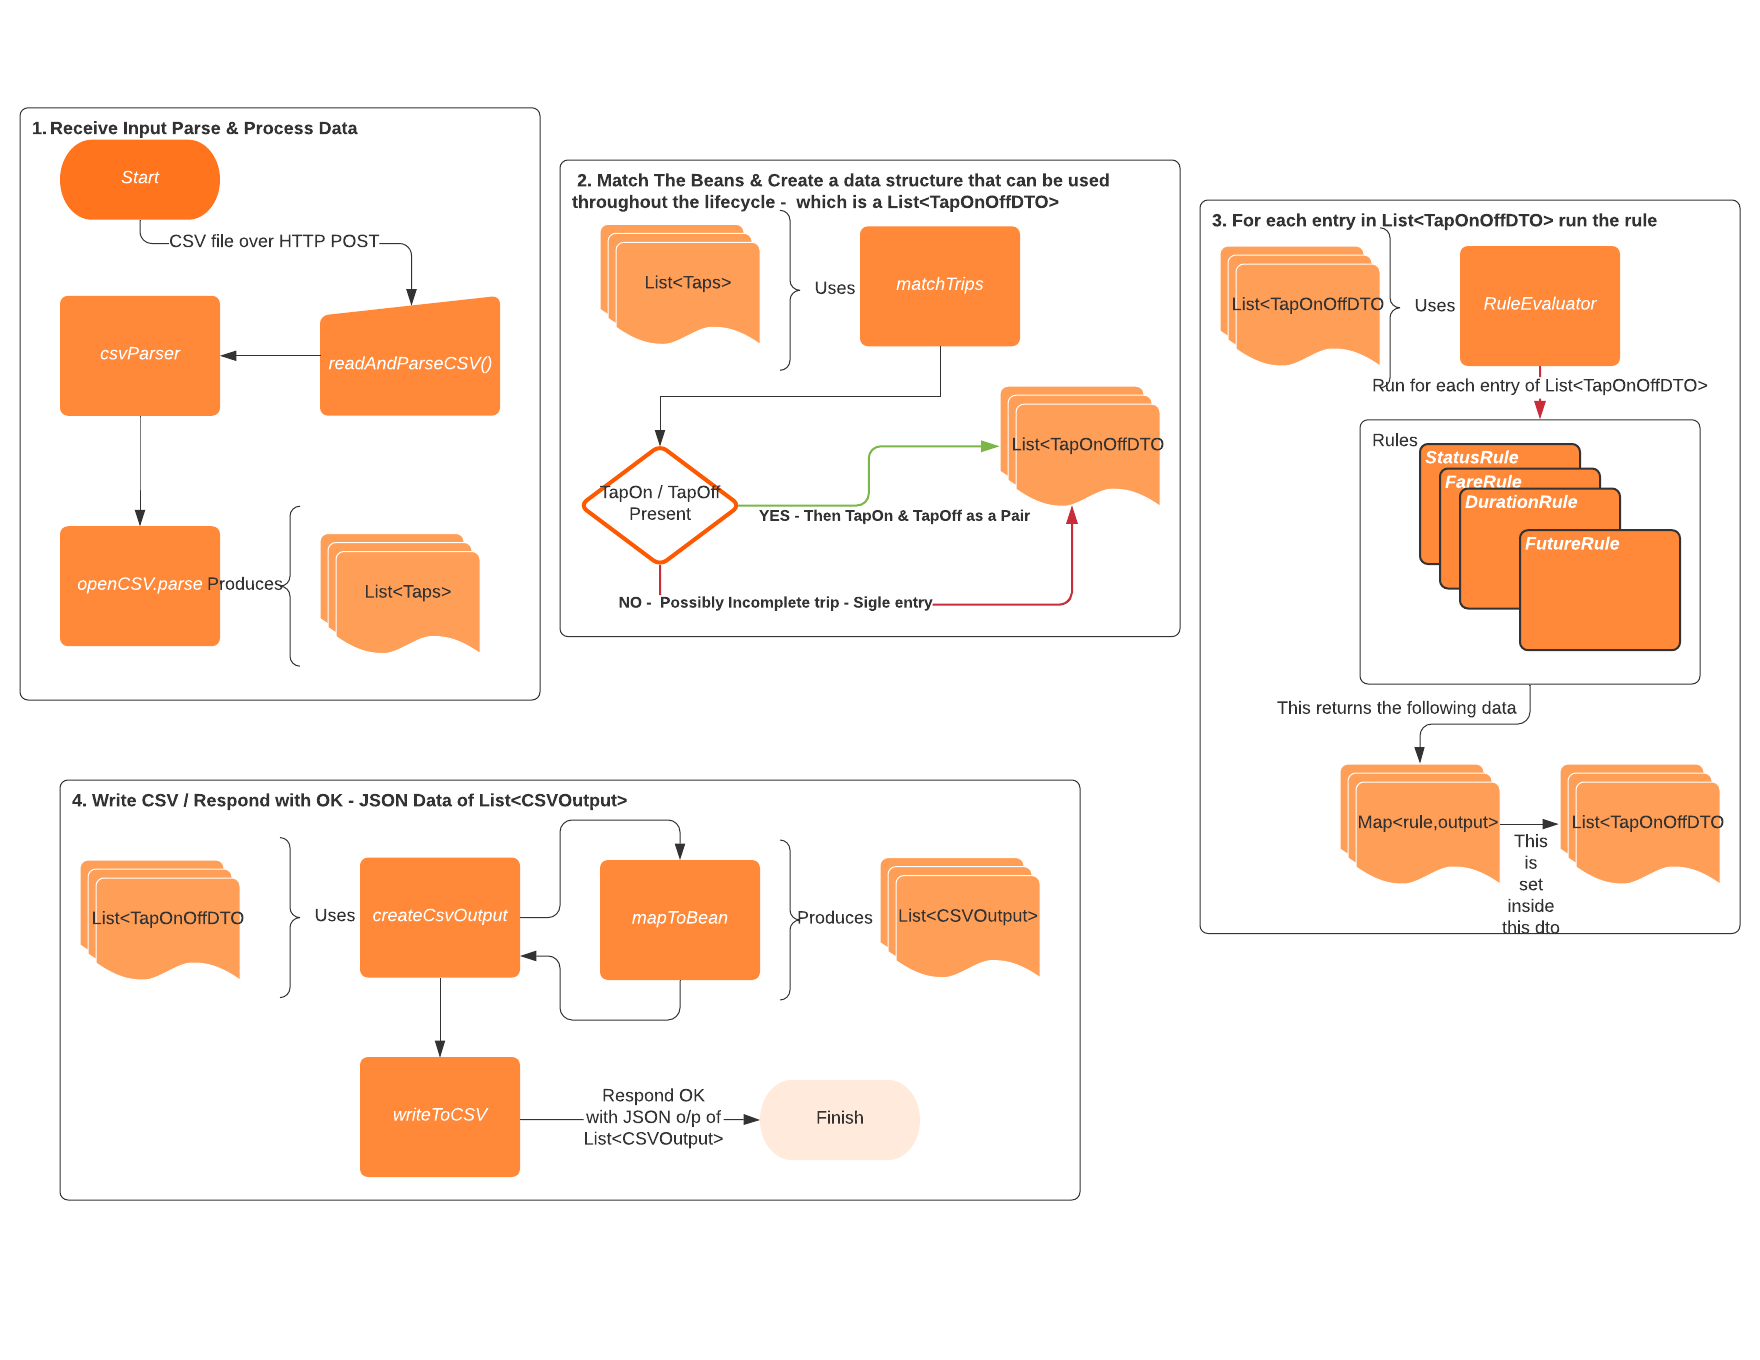
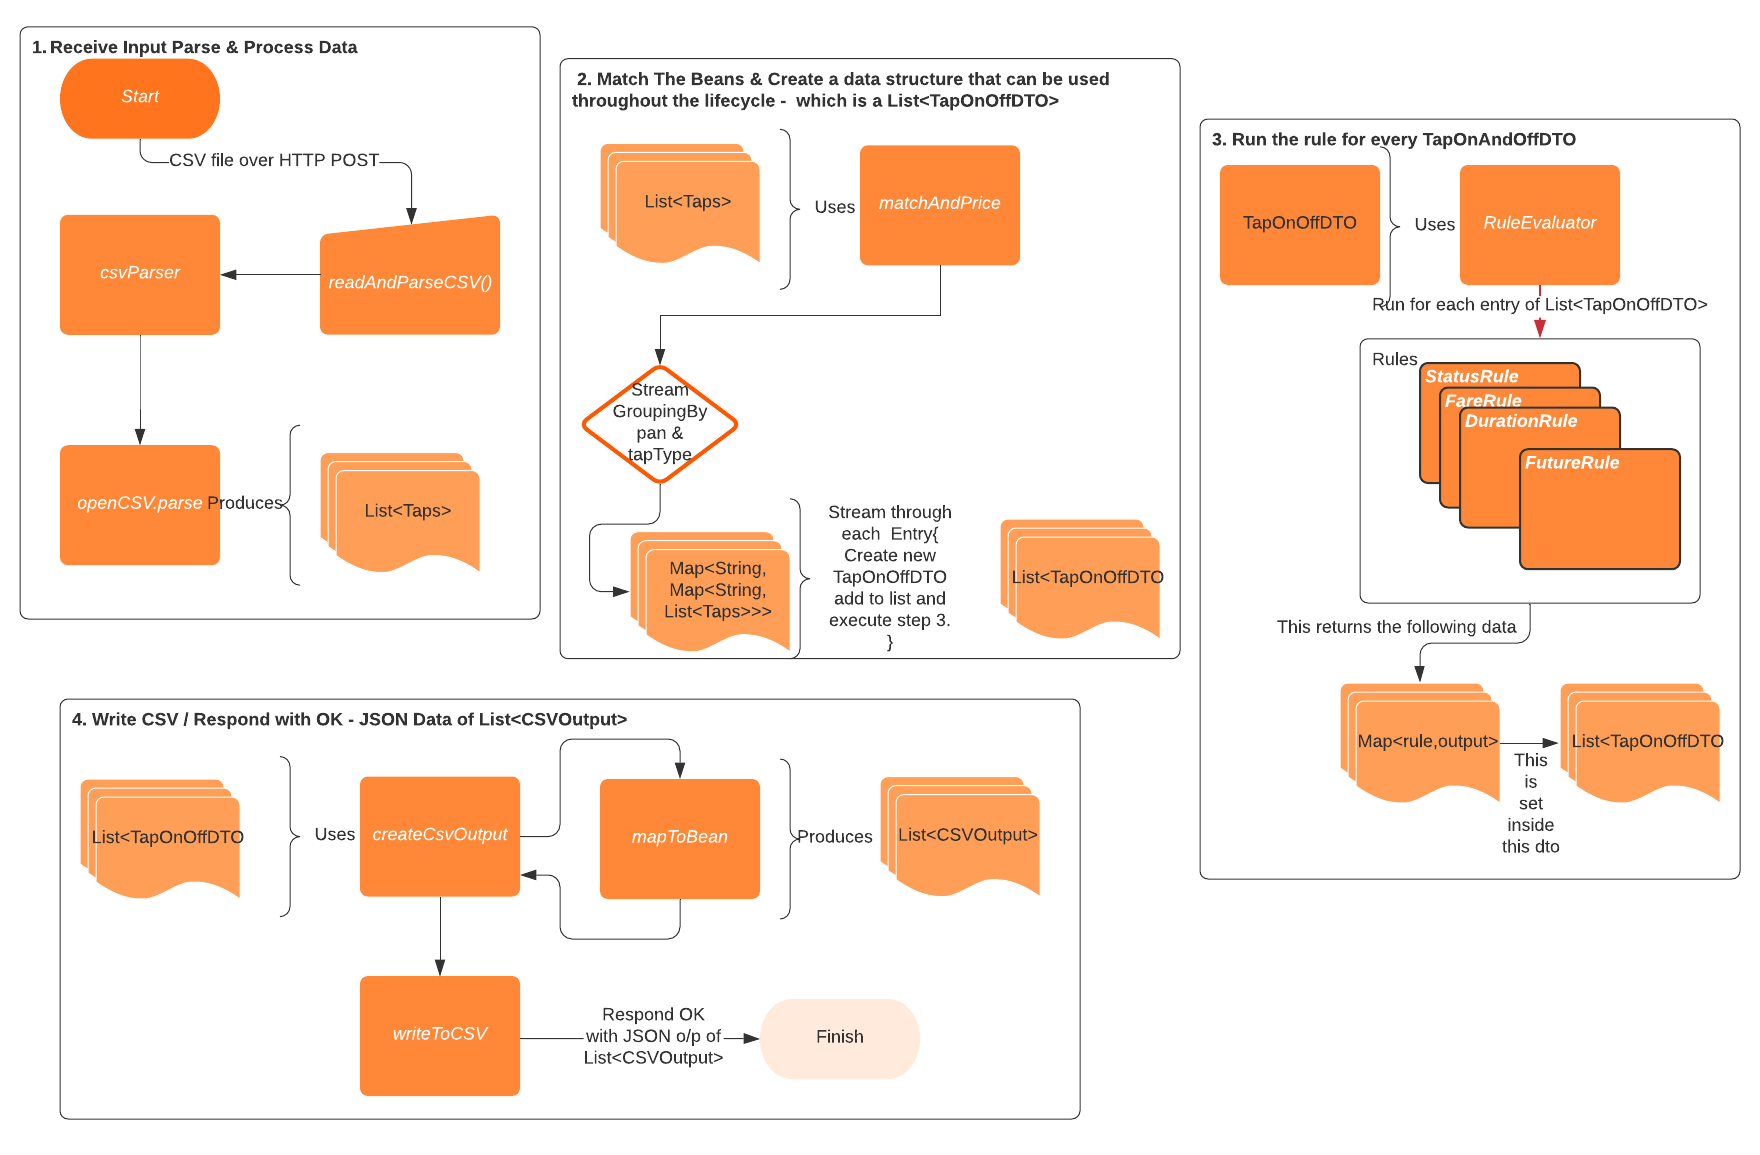
Updated documentation.

diff --git a/src/main/java/com/littlepay/farecalculator/service/AggregatorService.java b/src/main/java/com/littlepay/farecalculator/service/AggregatorService.java
@@ -83,12 +83,11 @@ public class AggregatorService {
     }
 
     /**
-     * matchTrips takes in the list of allTaps received from parsing and matches TapOn and TapOff data by copying the matched taps into a tempList and removing them from the result list once matched
-     * in order to reduce number of looping iterations.
-     * Within the tempList we match the pan numbers to tapOn and TapOff to get objects of trips per pan number.
+     * matchTrips takes in the list of allTaps received from parsing and matches TapOn and TapOff data.
+     * We use streams to match by pan and in the same iteration we group by tapType.
      *
      * @param allTaps
-     * @return List<TapOnOffDTO>
+     * @return Map<String, Map<String, List<Taps>>>
      */
     public Map<String, Map<String, List<Taps>>> matchTrips(List<Taps> allTaps) throws EmptyCSVException {
         if (allTaps.size() > 0)

diff --git a/src/test/java/com/littlepay/farecalculator/service/AggregatorServiceIntegrationTest.java b/src/test/java/com/littlepay/farecalculator/service/AggregatorServiceIntegrationTest.java
@@ -1,7 +1,6 @@
 package com.littlepay.farecalculator.service;
 
 import com.littlepay.farecalculator.FareCalculatorApplication;
-import com.littlepay.farecalculator.dto.Taps;
 import com.littlepay.farecalculator.parser.CSVParser;
 import org.junit.jupiter.api.Assertions;
 import org.junit.jupiter.api.Test;
@@ -15,7 +14,6 @@ import java.io.InputStreamReader;
 import java.io.Reader;
 import java.net.URISyntaxException;
 import java.nio.file.Paths;
-import java.util.List;
 
 @SpringBootTest(classes = FareCalculatorApplication.class, webEnvironment = SpringBootTest.WebEnvironment.RANDOM_PORT)
 public class AggregatorServiceIntegrationTest {

diff --git a/README.md b/README.md
@@ -193,7 +193,20 @@ $ curl -v -F file=@/f/development/poc/fare-calculator-poc/fare-calculator/src/ma
 
 ## Refactor
 
-application.yml
+1. Before refactor we were reading two configurations from application.yml, matrix and stops to map the cost.
+
+Old Configuration:
+```
+matrix: "{{0, 3.25, 7.3}, {3.25, 0, 5.5},{7.3, 5.5, 0}}"
+
+stops:
+  Stop1: 0
+  Stop2: 1
+  Stop3: 2
+```
+Now, we have a stop to price mapping configured in yaml file.
+We are reading both stops and cost as a key value pair into a Map as follows:
+```
 stops:
 Stop1Stop1: 0
 Stop1Stop2: 3.25
@@ -204,8 +217,10 @@ Stop2Stop3: 5.5
 Stop3Stop1: 7.3
 Stop3Stop2: 5.5
 Stop3Stop3: 0
-
-Data structure change:
+```
+2. Previously, we were iterating through two for loops to compute a pair of matched taps based on pan.
+Now, using streams we are groupingBy pan and tapType in a single iteration.
+Data structure from streams is as below:
 ````
 {
    123={
@@ -234,11 +249,17 @@ Data structure change:
    }
 }
 ````
-
-## Refactor:
+3. Updated pom.xml for validation framework using springboot custom validation as this is validated at bean level,
+reduces using null checks.
+Test case for validation can be found in `AggregatorServiceIntegrationTest`.
+4. Added Exception handler using ControllerAdvice.
+## Code changes
 
 - Removed static in DTO's
-- made loggers static final as per standard programming practice.
-- refactored matchTrips to loop one time to match pan and TapOnOffDTO using streams
-- reading yaml and mapping it directly to all the possible values as Map
-- used Object.isNull instead of checking custom null check
+- Made loggers static final as per standard programming practice and code clean up.
+- Refactored matchTrips to loop one time to match pan and TapOnOffDTO using streams.
+- Reading yaml and mapping it directly to all the possible values as Map.
+- Used Object.isNull instead of checking custom null check.
+- Added more test cases for most of the scenarios.
+- Used ControllerAdvice for exception handling to make Controller more readable.
+- Bean validation.
